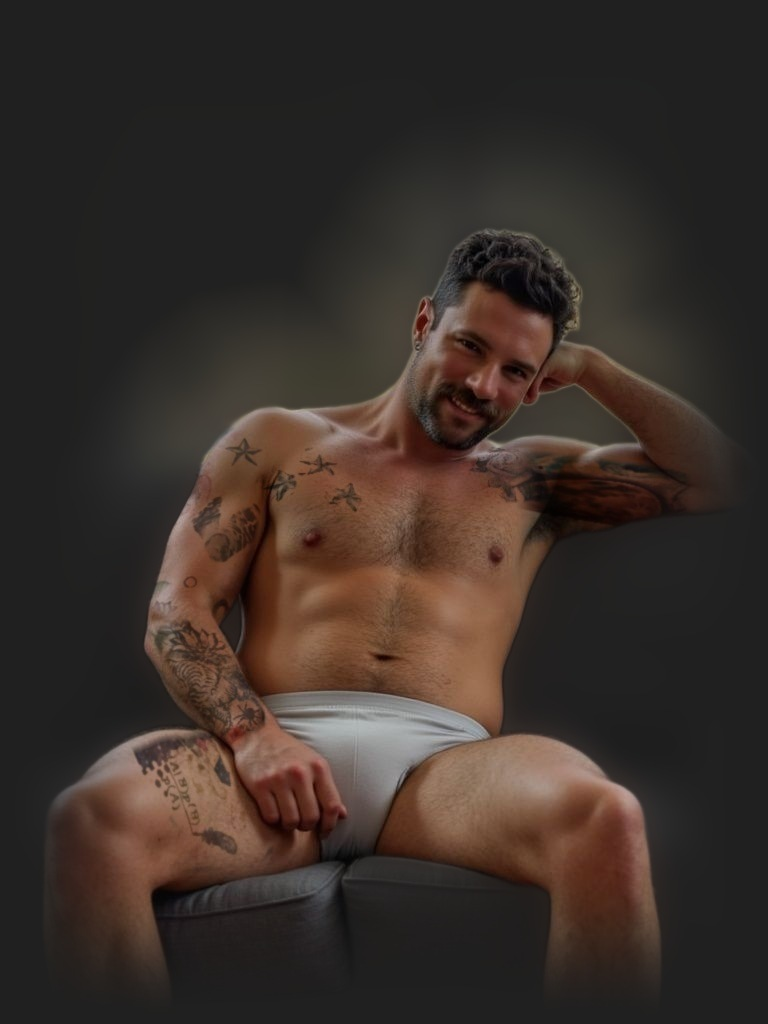
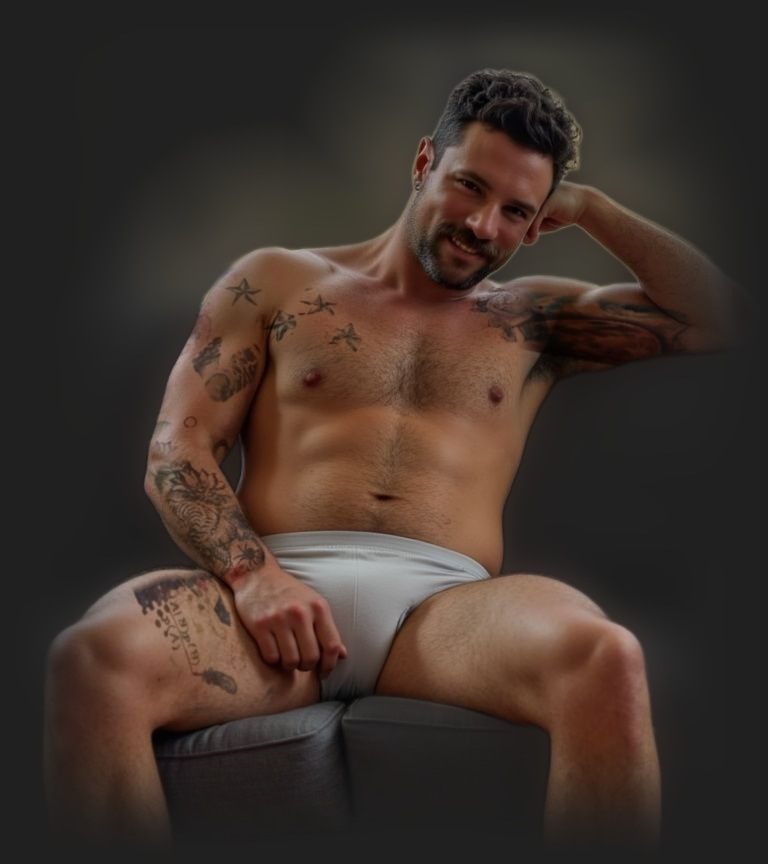
Hero: tighten the spacing
- Headline to tagline: 80px -> 32px (gap-12 -> gap-8, drop the tagline's pt-8)
- Hero photo: trim the empty faded top so the head sits level with the tagline
- Photo box: 534px -> 400px tall (356x400; 219x246 and 170x191 at the smaller breakpoints)

Claude-Session: https://claude.ai/code/session_01MA27UpKEFUfjS4Mxy8DgQo

diff --git a/src/components/Hero.jsx b/src/components/Hero.jsx
@@ -9,7 +9,7 @@ export default function Hero() {
     <section ref={ref} className={`[overflow-x:clip] relative bg-cobalt-dark${visible ? ' in-view' : ''}`}>
       <div className="page-container px-6 pt-[88px] pb-[96px] tablet:px-16 expanded:px-24 desktop:px-24">
 
-        <div className="flex flex-col gap-[136px] tablet:gap-12 expanded:gap-12 desktop:gap-12">
+        <div className="flex flex-col gap-[136px] tablet:gap-8 expanded:gap-8 desktop:gap-8">
 
           <h1 className="reveal-heading hero-slogan">
             <span className="block">MAXIMIZE Your Life.</span>{' '}
@@ -18,7 +18,7 @@ export default function Hero() {
 
           <div className="reveal-body flex flex-col gap-8 items-start tablet:flex-row tablet:gap-8 expanded:flex-row expanded:gap-14 desktop:flex-row desktop:gap-14">
 
-            <div className="flex flex-col gap-4 flex-1 min-w-0 tablet:pt-8 tablet:gap-4 expanded:pt-8 expanded:gap-4 desktop:pt-8 desktop:gap-4">
+            <div className="flex flex-col gap-4 flex-1 min-w-0 tablet:gap-4 expanded:gap-4 desktop:gap-4">
 
               <p className="font-figtree font-black text-24 leading-1-2 tracking-sm uppercase text-olive-lighter
                             expanded:text-32 desktop:text-40">

diff --git a/src/index.css b/src/index.css
@@ -327,15 +327,15 @@
 
 /* Hero right-side image — responsive sizing via raw media queries */
 .hero-img {
-  width: 400px;
-  height: 534px;
+  width: 356px;
+  height: 400px;
   flex-shrink: 0;
 }
 @media (min-width: 900px) and (max-width: 1199px) {
-  .hero-img { width: 246px; height: 328px; }
+  .hero-img { width: 219px; height: 246px; }
 }
 @media (min-width: 600px) and (max-width: 899px) {
-  .hero-img { width: 191px; height: 255px; }
+  .hero-img { width: 170px; height: 191px; }
 }
 @media (max-width: 599px) {
   .hero-img { display: none; }
